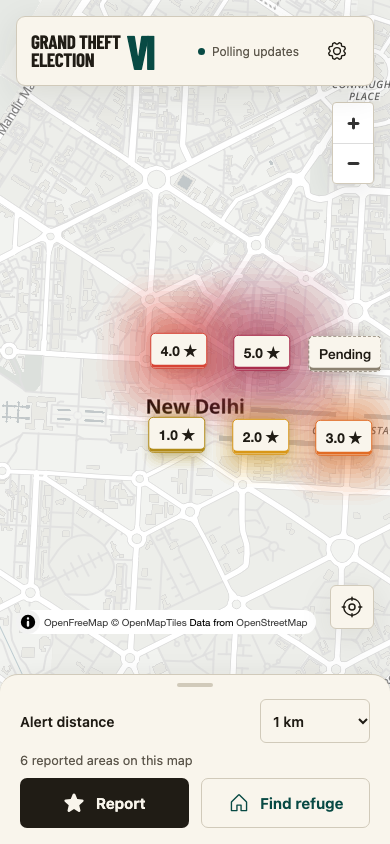
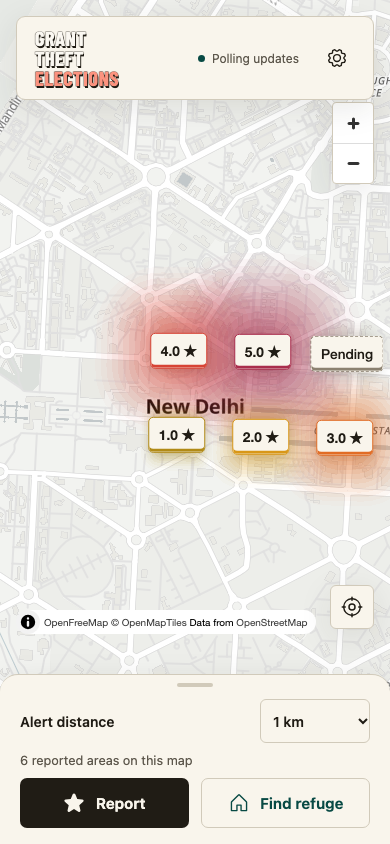
Rename app to Grant Theft Elections and refresh wordmark

diff --git a/web/src/styles.css b/web/src/styles.css
@@ -225,27 +225,32 @@ time {
   background: oklch(93% 0.06 80);
 }
 .brand {
-  display: flex;
+  display: inline-flex;
   align-items: center;
-  gap: 0.35rem;
-  color: var(--ink);
+  min-height: 56px;
+  flex-shrink: 0;
+  padding: 3px 4px;
   text-decoration: none;
   width: max-content;
 }
-.brand span {
+.brand-wordmark {
+  display: grid;
+  gap: 3px;
   font-family: BarlowCondensed, "Arial Narrow", sans-serif;
   font-weight: 700;
-  font-size: 1.2rem;
-  line-height: 0.92;
-  letter-spacing: -0.02em;
+  font-size: 1.25rem;
+  line-height: 0.84;
+  letter-spacing: 0.035em;
+  color: oklch(98% 0.008 85);
+  -webkit-text-stroke: 1.4px var(--ink);
+  paint-order: stroke fill;
+  text-shadow: 1px 1.5px 0 var(--ink);
 }
-.brand b {
-  font-family: BarlowCondensed, "Arial Narrow", sans-serif;
-  font-size: 3rem;
-  line-height: 1;
-  letter-spacing: -0.09em;
-  color: var(--teal);
-  padding-right: 0.15rem;
+.brand-wordmark > span {
+  display: block;
+}
+.brand-wordmark .brand-election {
+  color: oklch(77% 0.13 32);
 }
 .live-state {
   display: flex;

diff --git a/web/src/Admin.tsx b/web/src/Admin.tsx
@@ -1,3 +1,4 @@
+import { Brand } from "./Brand";
 import { useCallback, useEffect, useMemo, useState, useRef } from "react";
 import {
   MapTrifoldIcon,
@@ -179,14 +180,7 @@ export function Admin() {
   if (!me)
     return (
       <main className="admin-signin">
-        <a className="brand" href="/">
-          <span>
-            GRAND THEFT
-            <br />
-            ELECTION
-          </span>
-          <b>VI</b>
-        </a>
+        <Brand />
         <div>
           <p className="eyebrow">OPERATOR CONSOLE</p>
           <h1>
@@ -256,14 +250,7 @@ export function Admin() {
         Skip to content
       </a>
       <aside className="admin-nav">
-        <a className="brand" href="/">
-          <span>
-            GRAND THEFT
-            <br />
-            ELECTION
-          </span>
-          <b>VI</b>
-        </a>
+        <Brand />
         <span className="eyebrow">OPERATOR CONSOLE</span>
         <nav>
           {(

diff --git a/web/index.html b/web/index.html
@@ -1,1 +1,1 @@
-<!doctype html><html lang="en"><head><meta charset="UTF-8"/><meta name="viewport" content="width=device-width,initial-scale=1,viewport-fit=cover"/><meta name="theme-color" content="#f5f3eb"/><title>Grand Theft Election VI — Delhi community map</title></head><body><div id="root"></div><script type="module" src="/src/main.tsx"></script></body></html>
+<!doctype html><html lang="en"><head><meta charset="UTF-8"/><meta name="viewport" content="width=device-width,initial-scale=1,viewport-fit=cover"/><meta name="theme-color" content="#f5f3eb"/><title>Grant Theft Elections — Delhi community map</title></head><body><div id="root"></div><script type="module" src="/src/main.tsx"></script></body></html>

diff --git a/web/src/PublicMap.tsx b/web/src/PublicMap.tsx
@@ -1,3 +1,4 @@
+import { Brand } from "./Brand";
 import { useEffect, useMemo, useRef, useState } from "react";
 import {
   StarIcon,
@@ -472,14 +473,7 @@ export function PublicMap() {
         }}
       />
       <header className="map-header">
-        <a className="brand" href="/" aria-label="Grand Theft Election VI home">
-          <span>
-            GRAND THEFT
-            <br />
-            ELECTION
-          </span>
-          <b>VI</b>
-        </a>
+        <Brand />
         <span className={`live-state ${fresh ? "healthy" : ""}`}>
           <i />
           {displayState}

diff --git a/web/e2e/map.spec.ts b/web/e2e/map.spec.ts
@@ -110,6 +110,12 @@ test("responsive map and operator views have no page overflow", async ({
   ] as const) {
     await page.setViewportSize({ width, height });
     await page.goto("/");
+    await expect(page).toHaveTitle(
+      "Grant Theft Elections — Delhi community map",
+    );
+    await expect(
+      page.getByRole("link", { name: "Grant Theft Elections home" }),
+    ).toBeVisible();
     await expect(
       page.getByRole("button", { name: "Report", exact: true }),
     ).toBeVisible();

diff --git a/web/src/Brand.tsx b/web/src/Brand.tsx
@@ -1,0 +1,11 @@
+export function Brand() {
+  return (
+    <a className="brand" href="/" aria-label="Grant Theft Elections home">
+      <span className="brand-wordmark" aria-hidden="true">
+        <span>GRANT</span>
+        <span>THEFT</span>
+        <span className="brand-election">ELECTIONS</span>
+      </span>
+    </a>
+  );
+}

diff --git a/DESIGN.md b/DESIGN.md
@@ -4,7 +4,7 @@
 Light street atlas for people outdoors in Delhi during daylight. Original bold condensed branding, readable system-font UI. Restrained off-white neutrals; soft amber-to-crimson gradient hotspots for 1–5 star incident ratings, teal refuges, blue route lines. Hotspots fade within the existing zone footprint; numeric star labels and explicit Pending labels preserve meaning without relying on color. Zone outlines are hidden; stronger gradient cores fade toward the zone edge. Dark ink text. Opaque panels and visible focus rings.
 
 ## Public layout
-Full-height map. Compact header with original GTE VI wordmark and live state. Desktop left panel; mobile bottom sheet. Report and Find refuge remain reachable. No hero or marketing page.
+Full-height map. Compact header with original Grant Theft Elections wordmark with white, dark outlines and a warm coral accent and live state. Desktop left panel; mobile bottom sheet. Report and Find refuge remain reachable. No hero or marketing page. Brand lettering uses the licensed Barlow Condensed font, generous line spacing and a shared three-line lockup without a numeral. Colour inspiration comes from [GTA artwork](https://www.rockstargames.com/VI/media/artwork-wallpapers); no Rockstar logo or media is bundled.
 
 ## Reporting
 Report → select 1–5 stars → hold 3 seconds. No preselection or extra confirmation. Selecting a rating reveals brief guidance: 1 checkposts with fewer than 5 personnel, 2 active personnel, 3 detention ongoing, 4 manhandling and higher personnel count, 5 full-blown violence. Progress uses transform; releasing, focus loss, and pointer cancellation reset. Sending and acknowledgement are distinct.

diff --git a/docs/operations/verification.md b/docs/operations/verification.md
@@ -22,6 +22,10 @@ Go race tests and vet passed with dedicated PostGIS/Redis services; all 36 front
 
 Zone outlines are removed. Six local HTTPS browser journeys passed with stronger gradient cores, including all five selected-rating descriptions and the unchanged hold-to-submit flow. A subsequent hotspot check passed after the final paint adjustment, verifying that clicking the invisible zone footprint still opens incident details. All 36 frontend tests and the production build passed. Desktop/mobile hotspot and mobile rating screenshots were visually inspected. Hotspot screenshots use isolated browser fixtures; no incident data was seeded for this UI change. Existing 250 m geometry, severity buffers, alert rules and persisted opacity settings remain unchanged. No new capacity benchmark was run.
 
+## Grant Theft Elections branding
+
+The app title, public map, admin sign-in and operator navigation use the renamed project and one shared original typographic wordmark. The VI lockup is removed. All 36 frontend tests, production build and six local HTTPS browser journeys passed, including renamed title/home-link assertions and responsive/accessibility checks. A separate 320 px preview had no page overflow; its wordmark and admin sign-in were visually inspected. Current documentation screenshots were refreshed. No backend behavior or deployment capacity was changed.
+
 ## Local load measurements (original 500 m reporting grid)
 
 | Workload | Measured scope | Result |

diff --git a/PRODUCT.md b/PRODUCT.md
@@ -7,7 +7,7 @@ product
 Anonymous people in Delhi NCT browsing nearby community reports outdoors on phones, and a small trusted operator team managing incidents and host-confirmed refuges on desktops or phones.
 
 ## Product Purpose
-Grand Theft Election VI is a parody-themed community map. Publish fresh anonymous danger ratings, notify nearby foreground users, and calculate walking routes to curated refuges while avoiding reported areas. Reports and absence of reports never verify safety.
+Grant Theft Elections is a parody-themed community map. Publish fresh anonymous danger ratings, notify nearby foreground users, and calculate walking routes to curated refuges while avoiding reported areas. Reports and absence of reports never verify safety.
 
 ## Brand Personality
 Urban, direct, playful. Original GTA-inspired typography and star motifs; calm, literal operational copy.

diff --git a/README.md b/README.md
@@ -1,4 +1,4 @@
-# Grand Theft Election VI
+# Grant Theft Elections
 
 An original, daylight-readable Delhi community map. Anonymous visitors report their current 250 m area with 1–5 stars, see fresh reports, receive foreground proximity alerts, and preview walking routes to host-confirmed refuges. The private `/admin` console moderates contributions, manages refuges, records changes, and controls operator access.
 

diff --git a/docs/superpowers/plans/2026-10-11-initial-release.md b/docs/superpowers/plans/2026-10-11-initial-release.md
@@ -1,4 +1,4 @@
-# Grand Theft Election VI implementation plan
+# Grant Theft Elections implementation plan
 
 Goal: working anonymous Delhi map and private operator console.
 Architecture: Go modular API, PostGIS authoritative state, Redis events, browser routing worker, React/MapLibre UI.

diff --git a/docs/superpowers/specs/2026-10-11-gte-vi-design.md b/docs/superpowers/specs/2026-10-11-gte-vi-design.md
@@ -1,4 +1,4 @@
-# Grand Theft Election VI design specification
+# Grant Theft Elections design specification
 
 The approved conversation and the implementation plan are the product authority. PRODUCT.md and DESIGN.md capture the agreed design brief.
 
